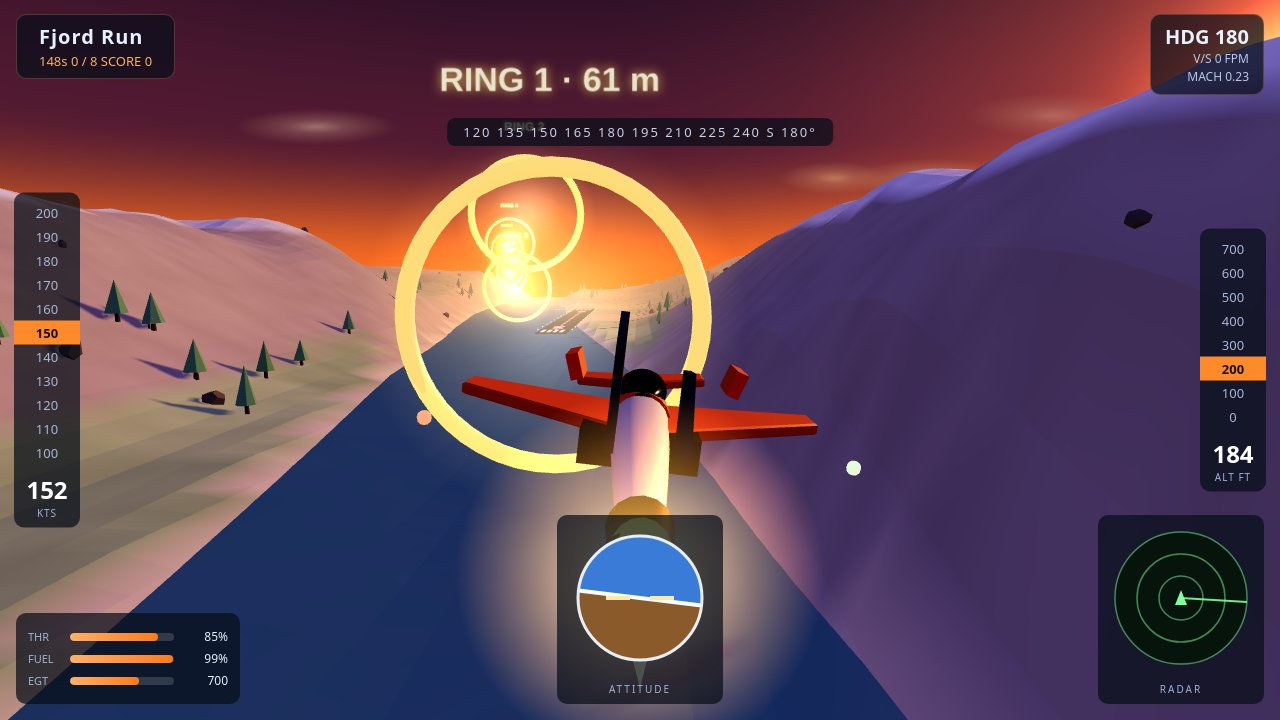
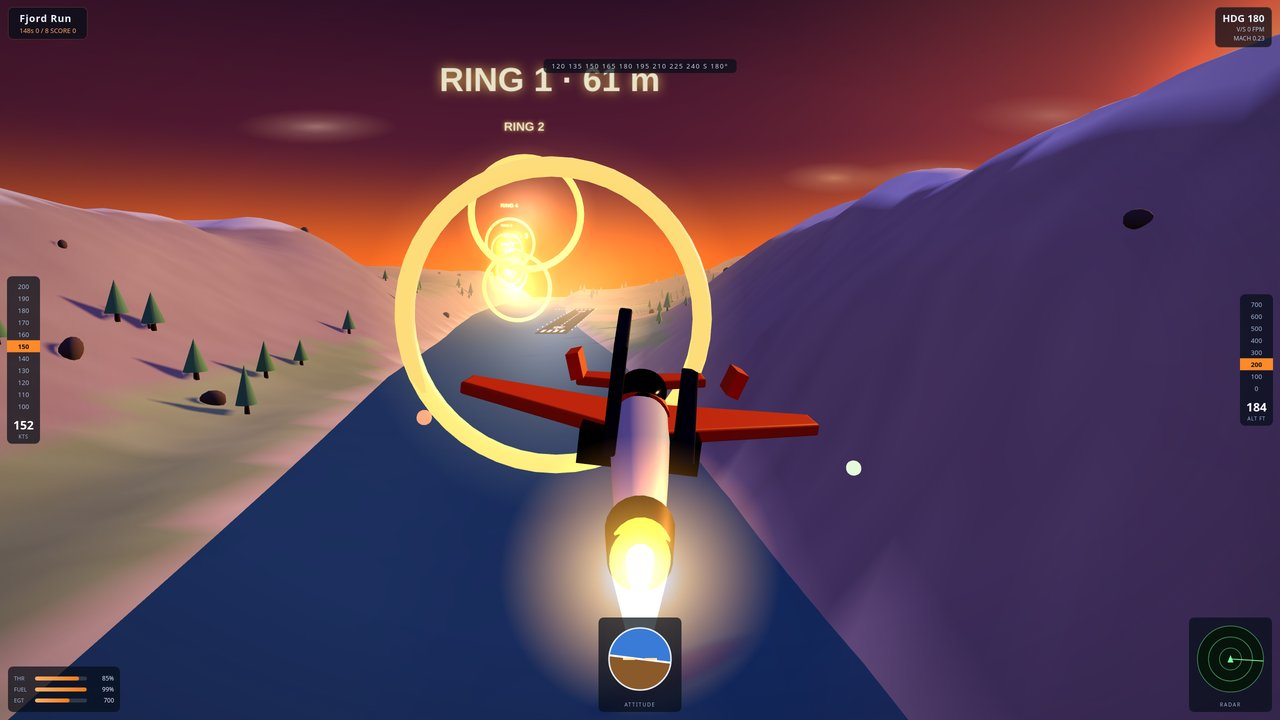
r6 polish — smooth the 3D: smooth terrain normals (no more facets), denser smoother jet/trees/rocks, softer sun + afterburner glow, vignette, supersampled screenshots

diff --git a/game/src/jet.js b/game/src/jet.js
@@ -30,9 +30,9 @@ function extrudeFlat(shape, thick, mat) {
   const geo = new THREE.ExtrudeGeometry(shape, {
     depth: thick,
     bevelEnabled: true,
-    bevelThickness: 0.06,
-    bevelSize: 0.08,
-    bevelSegments: 1,
+    bevelThickness: 0.08,
+    bevelSize: 0.12,
+    bevelSegments: 3,
   });
   geo.rotateX(-Math.PI / 2);
   const mesh = new THREE.Mesh(geo, mat);
@@ -84,7 +84,7 @@ export function buildJet() {
     [0.48, 14.2],
     [0.42, 15.2],
   ].map(([r, y]) => new THREE.Vector2(r, y));
-  const bodyGeo = new THREE.LatheGeometry(profile, 20);
+  const bodyGeo = new THREE.LatheGeometry(profile, 28);
   bodyGeo.rotateX(Math.PI / 2);
   bodyGeo.translate(0, 0, -J.length / 2);
   const body = new THREE.Mesh(bodyGeo, white);
@@ -92,19 +92,19 @@ export function buildJet() {
   jet.add(body);
 
   // Orange nose tip + orange band behind the canopy.
-  const nose = new THREE.Mesh(new THREE.ConeGeometry(0.46, 1.4, 16), orange);
+  const nose = new THREE.Mesh(new THREE.ConeGeometry(0.46, 1.4, 24), orange);
   nose.rotation.x = -Math.PI / 2;
   nose.position.set(0, 0, -J.length / 2 - 0.4);
   nose.castShadow = true;
   jet.add(nose);
-  const band = new THREE.Mesh(new THREE.CylinderGeometry(0.9, 0.9, 0.9, 20), orange);
+  const band = new THREE.Mesh(new THREE.CylinderGeometry(0.9, 0.9, 0.9, 28), orange);
   band.rotation.x = Math.PI / 2;
   band.position.set(0, 0.05, -1.6);
   jet.add(band);
 
   // Bubble canopy: dark glass.
   const canopy = new THREE.Mesh(
-    new THREE.SphereGeometry(1, 20, 14),
+    new THREE.SphereGeometry(1, 28, 20),
     new THREE.MeshStandardMaterial({
       color: J.glassColor,
       metalness: J.glassMetal,
@@ -141,7 +141,10 @@ export function buildJet() {
     finShape.closePath();
     const finGeo = new THREE.ExtrudeGeometry(finShape, {
       depth: 0.2,
-      bevelEnabled: false,
+      bevelEnabled: true,
+      bevelThickness: 0.05,
+      bevelSize: 0.05,
+      bevelSegments: 2,
     });
     const fin = new THREE.Mesh(finGeo, navy);
     fin.castShadow = true;
@@ -166,14 +169,14 @@ export function buildJet() {
 
   // Afterburner: nozzle, flame cone, glow sprite and a point light.
   const nozzle = new THREE.Mesh(
-    new THREE.CylinderGeometry(0.52, 0.62, 1.3, 16),
+    new THREE.CylinderGeometry(0.52, 0.62, 1.3, 24),
     std(0x2a2d33, 0.35, 0.8),
   );
   nozzle.rotation.x = Math.PI / 2;
   nozzle.position.set(0, 0, J.length / 2 + 0.4);
   jet.add(nozzle);
   const flame = new THREE.Mesh(
-    new THREE.ConeGeometry(0.52, 3.6, 16, 1, true),
+    new THREE.ConeGeometry(0.52, 3.6, 24, 1, true),
     new THREE.MeshBasicMaterial({
       color: J.afterburner.mid,
       transparent: true,
@@ -187,7 +190,7 @@ export function buildJet() {
   flame.position.set(0, 0, J.length / 2 + 2.6);
   jet.add(flame);
   const flameCore = new THREE.Mesh(
-    new THREE.ConeGeometry(0.26, 2.4, 12, 1, true),
+    new THREE.ConeGeometry(0.26, 2.4, 20, 1, true),
     new THREE.MeshBasicMaterial({
       color: J.afterburner.core,
       transparent: true,
@@ -200,7 +203,7 @@ export function buildJet() {
   flameCore.rotation.x = Math.PI / 2;
   flameCore.position.set(0, 0, J.length / 2 + 2.0);
   jet.add(flameCore);
-  const glow = glowSprite('rgba(255, 140, 40, 0.9)', 5.5);
+  const glow = glowSprite('rgba(255, 140, 40, 0.9)', 4.2);
   glow.position.set(0, 0, J.length / 2 + 1.6);
   jet.add(glow);
   const light = new THREE.PointLight(0xff7a1a, 2.5, 34, 1.8);
@@ -215,7 +218,7 @@ export function buildJet() {
   ];
   for (const [c, x, y, z] of tipLights) {
     const l = new THREE.Mesh(
-      new THREE.SphereGeometry(0.2, 8, 6),
+      new THREE.SphereGeometry(0.2, 12, 8),
       new THREE.MeshStandardMaterial({ color: c, emissive: c, emissiveIntensity: 3 }),
     );
     l.position.set(x, y, z);

diff --git a/game/src/terrain.js b/game/src/terrain.js
@@ -61,7 +61,7 @@ function fieldColor(x, z) {
 
 function vertexColor(x, z, h) {
   const slope = slopeAt(x, z);
-  const jitter = 0.92 + hash2(Math.floor(x / 3), Math.floor(z / 3), 11) * 0.16;
+  const jitter = 0.94 + hash2(Math.floor(x / 3), Math.floor(z / 3), 11) * 0.12;
   let c;
   if (h < CFG.world.waterLevel + 1.5) {
     c = [0.76, 0.66, 0.47];
@@ -94,13 +94,14 @@ export function buildTerrain(scene) {
     colors[i * 3 + 2] = c[2];
   }
   geo.setAttribute('color', new THREE.BufferAttribute(colors, 3));
-  const flat = geo.toNonIndexed();
-  flat.computeVertexNormals();
+  // Smooth normals on the indexed grid: the dusk light rolls over the
+  // hills instead of catching every triangle edge, so the valley reads
+  // as smooth ground with soft colour variation, not a faceted shell.
+  geo.computeVertexNormals();
   const mesh = new THREE.Mesh(
-    flat,
+    geo,
     new THREE.MeshStandardMaterial({
       vertexColors: true,
-      flatShading: true,
       roughness: 0.95,
       metalness: 0,
     }),
@@ -131,10 +132,9 @@ export function buildTerrain(scene) {
 
 function plantTrees(scene) {
   const rng = mulberry32(41);
-  const cone = new THREE.ConeGeometry(3.2, 10, 7);
-  const trunk = new THREE.CylinderGeometry(0.55, 0.8, 3.4, 6);
+  const cone = new THREE.ConeGeometry(3.2, 10, 12);
+  const trunk = new THREE.CylinderGeometry(0.55, 0.8, 3.4, 10);
   const leafMat = new THREE.MeshStandardMaterial({
-    flatShading: true,
     roughness: 0.9,
   });
   const trunkMat = new THREE.MeshStandardMaterial({ color: 0x4a3220, roughness: 1 });
@@ -173,10 +173,9 @@ function plantTrees(scene) {
 
 function scatterRocks(scene) {
   const rng = mulberry32(97);
-  const geo = new THREE.DodecahedronGeometry(2.4, 0);
+  const geo = new THREE.DodecahedronGeometry(2.4, 1);
   const mat = new THREE.MeshStandardMaterial({
     color: 0x6a625a,
-    flatShading: true,
     roughness: 1,
   });
   const rocks = new THREE.InstancedMesh(geo, mat, T.rockCount);

diff --git a/game/style.css b/game/style.css
@@ -1,6 +1,16 @@
 /* Ember Fjord — HUD and menu styling. Dark glass panels, warm amber
    accents, and type that stays readable over a bright dusk sky. */
 
+/* A soft vignette over the 3D view only: it rounds the frame off and
+   pulls the eye to the jet, without touching the HUD or the menu. */
+.vignette {
+  position: fixed;
+  inset: 0;
+  pointer-events: none;
+  background: radial-gradient(ellipse at center, transparent 58%, rgba(10, 8, 20, 0.22) 100%);
+  z-index: 4;
+}
+
 .hud {
   position: fixed;
   inset: 0;

diff --git a/game/index.html b/game/index.html
@@ -16,6 +16,7 @@
 </head>
 <body>
 <canvas id="game" aria-label="Ember Fjord: fly the jet through the glowing rings, slalom the peaks, or land on runway 18"></canvas>
+<div class="vignette" aria-hidden="true"></div>
 <p id="status" role="status" aria-live="polite"></p>
 <script type="module" src="./src/main.js"></script>
 </body>

diff --git a/game/src/config.js b/game/src/config.js
@@ -15,7 +15,7 @@ export const CFG = {
   // Terrain shape. Peaks rise to ~235 m; the valley floor sits at ~2 m
   // and the fjord channel is carved down to -16 m so water shows.
   terrain: {
-    segments: 180,
+    segments: 220,
     peakHeight: 235,
     snowLine: 95,
     rockLine: 55,

diff --git a/game/src/render.js b/game/src/render.js
@@ -93,7 +93,7 @@ export function createSun(scene) {
     }),
   );
   sprite.position.copy(dir).multiplyScalar(2600);
-  sprite.scale.set(900, 900, 1);
+  sprite.scale.set(620, 620, 1);
   scene.add(sprite);
   return sprite;
 }
